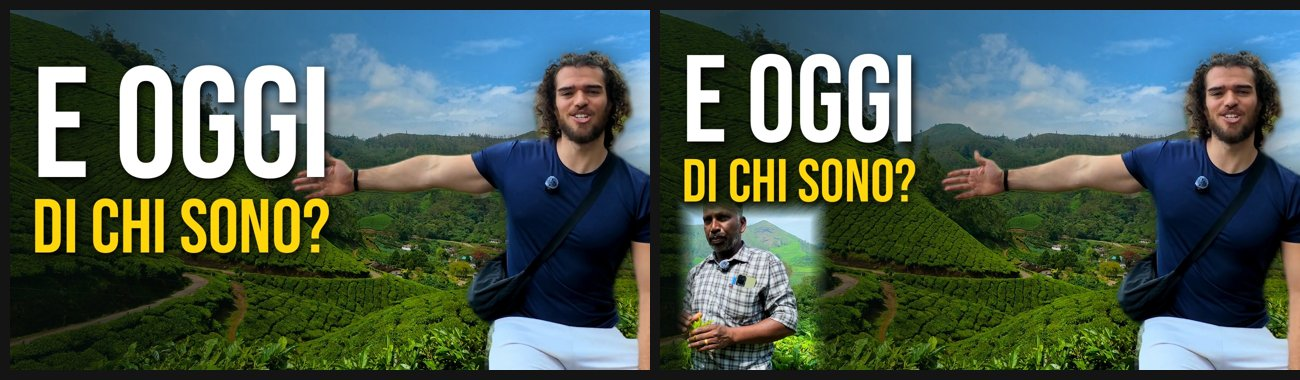
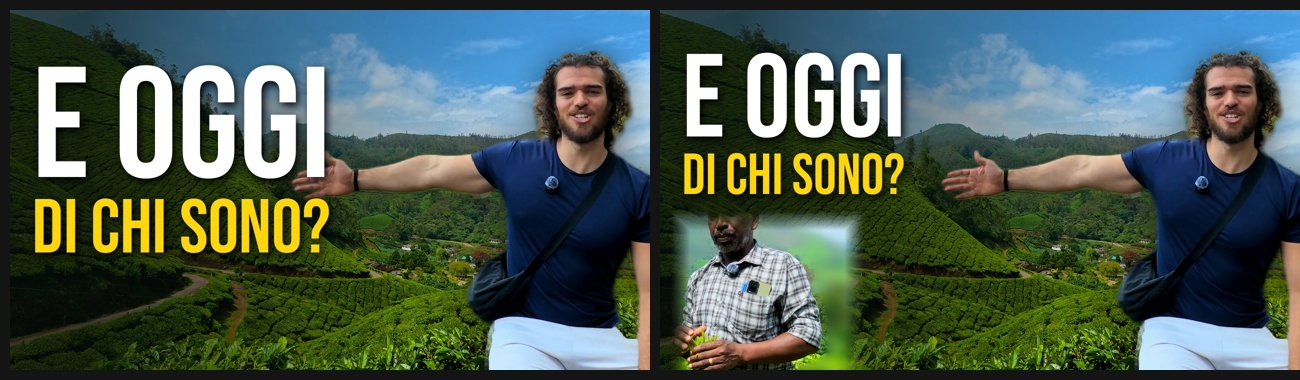
Copy: te, miniatura con Sadish sfumato e più grande
Claude-Session: https://claude.ai/code/session_01Htfbh2yWc665ptbLq1HQGA

Changed region(s): [[0.4923, 0.1158, 0.7077, 0.9842]]

diff --git a/copioni/te_miniature/thumb_te.py b/copioni/te_miniature/thumb_te.py
@@ -43,16 +43,18 @@ def comp(out,bgframe,cx,person,h,px,dark=0.75,mirror=False,target=600,sadish=Non
     al=Image.new('L',base.size,0); al.paste(m.getchannel('A'),pos); s_=Image.new('RGBA',base.size,(0,0,0,0))
     s_.putalpha(al.filter(ImageFilter.GaussianBlur(30)).point(lambda v:int(v*0.5))); base.alpha_composite(s_); base.alpha_composite(m,pos)
     if sadish:   # Sadish mentre raccoglie (fotogramma 119.2 del lungo), in basso a sinistra, bordi sfumati, niente cornice
-        w_,box,sx=sadish; ph=grade(Image.open(F+'q_119.2.png').convert('RGB').crop(box),1.1,1.15,1.05)
+        w_,box,sx,top=sadish; src=Image.open(F+'q_119.2.png').convert('RGB'); msk=Image.open(F+'cut_q.png').getchannel('A').filter(ImageFilter.MaxFilter(61)).filter(ImageFilter.GaussianBlur(14))
+        src=Image.composite(src,src.filter(ImageFilter.GaussianBlur(28)),msk)   # lui nitido, panorama sfumato
+        ph=grade(src.crop(box),1.1,1.15,1.05)
         ph=ph.resize((w_,int(ph.height*w_/ph.width)),Image.LANCZOS)
         yy,xx=np.mgrid[0:ph.height,0:ph.width].astype(np.float32); f=40.0
         m=np.minimum.reduce([xx/f,(ph.width-1-xx)/f,yy/f,np.full_like(xx,9)]).clip(0,1)   # in basso esce dal bordo
         ph=ph.convert('RGBA'); ph.putalpha(Image.fromarray((m**1.3*255).astype('uint8')))
-        base.alpha_composite(ph,(sx,H-ph.height))
+        base.alpha_composite(ph,(sx,top))
     text(base,[("E OGGI",WHITE,8),("DI CHI SONO?",YEL,0)],44,40 if sadish else 50,target)
     base.convert('RGB').save(out,quality=92)
 comp('copioni/te_miniature/A1_indica.jpg','f_27.png',0.5,'clean_1.5.png',640,560,mirror=True)
-comp('copioni/te_miniature/A1_sadish.jpg','f_27.png',0.5,'clean_1.5.png',640,560,mirror=True,target=470,sadish=(310,(1600,120,2800,1450),30))
+comp('copioni/te_miniature/A1_sadish.jpg','f_27.png',0.5,'clean_1.5.png',640,560,mirror=True,target=450,sadish=(390,(1580,260,2830,1490),20,400))
 comp('copioni/te_miniature/A2_braccia.jpg','f_27.png',0.5,'clean_25.png',660,590,target=520)
 ims=[Image.open(f'copioni/te_miniature/{n}.jpg').resize((640,360)) for n in ('A1_indica','A1_sadish')]
 G=Image.new('RGB',(1300,380),(20,20,20))
